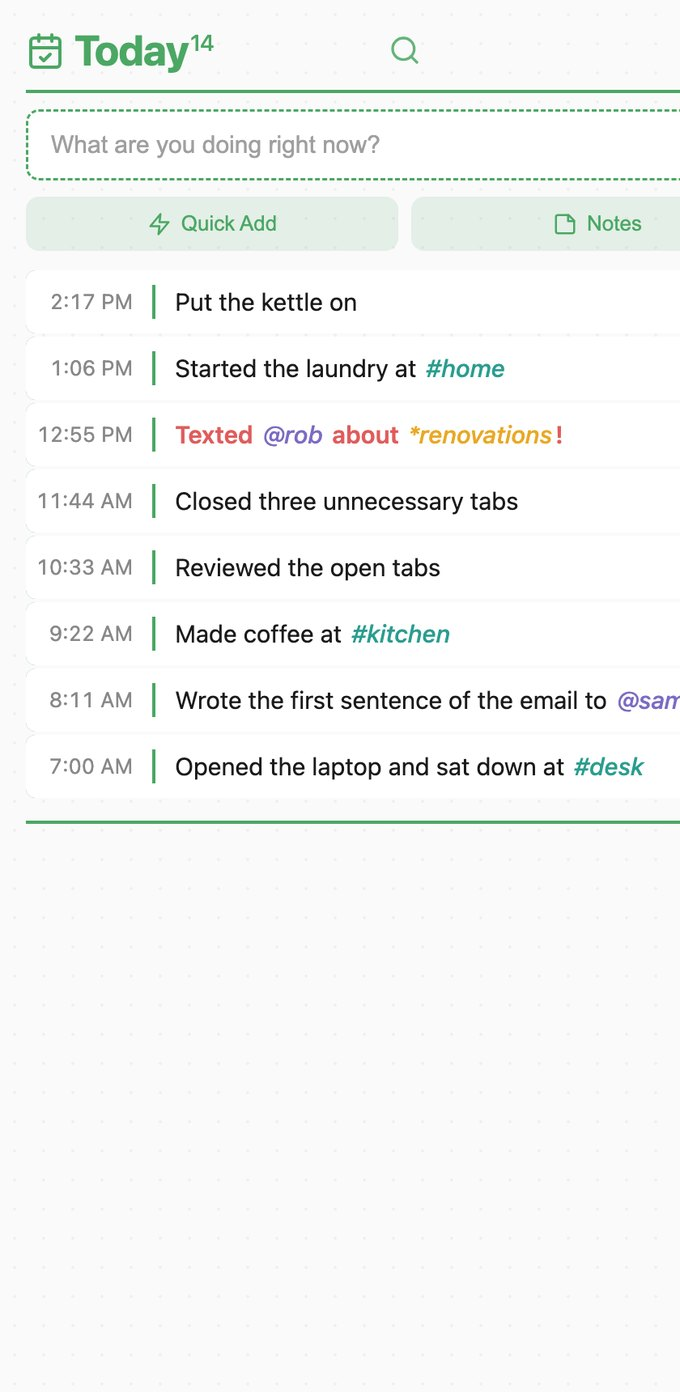
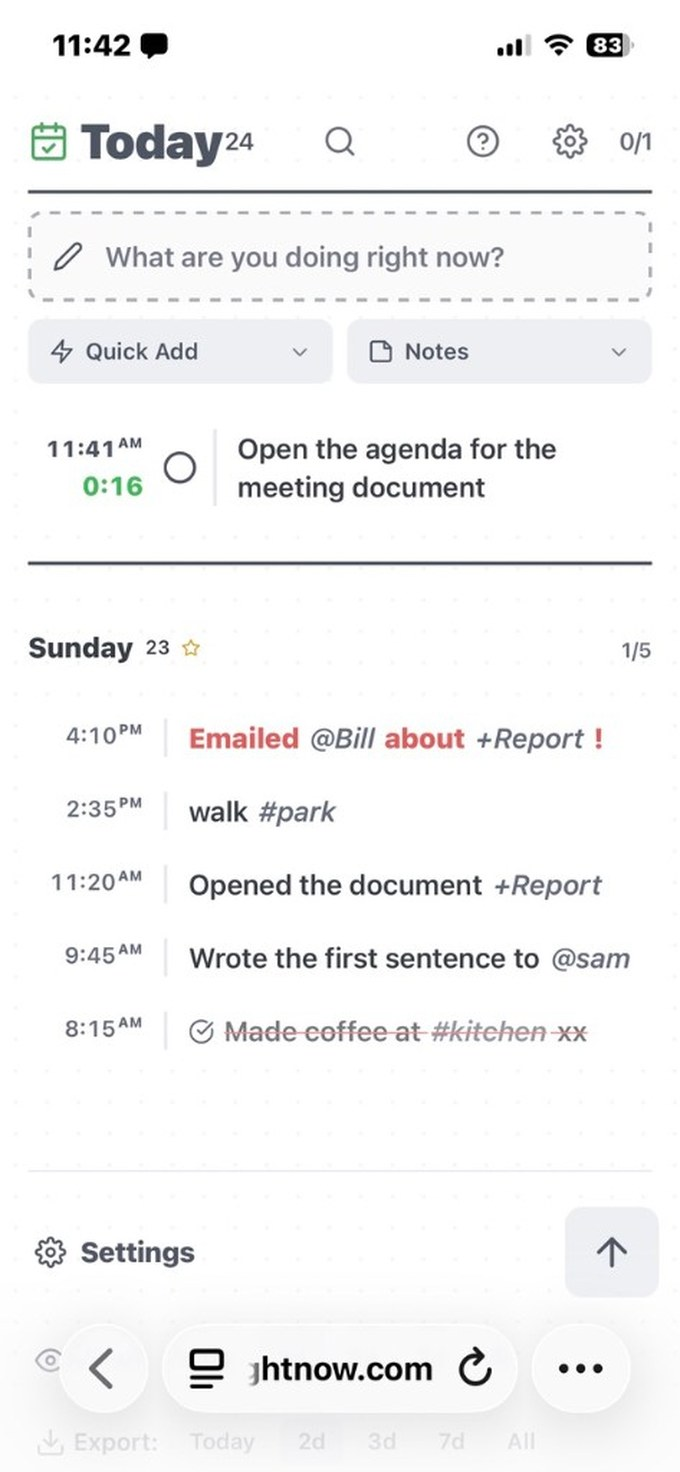
Update image references across multiple HTML files and README to use the new screenshot-840.jpg. Remove outdated screenshot.png and adjust related documentation for consistency in file naming and descriptions.

diff --git a/index.html b/index.html
@@ -19,7 +19,7 @@
   <meta property="og:title" content="Doing Right Now" />
   <meta property="og:description" content="When you can't start, write the smallest step. Doing Right Now (DRN) — a journal for getting unstuck — one timestamped line at a time." />
   <meta property="og:url" content="https://doingrightnow.com/" />
-  <meta property="og:image" content="https://doingrightnow.com/images/screenshot.png" />
+  <meta property="og:image" content="https://doingrightnow.com/images/screenshot-840.jpg" />
   <meta name="twitter:card" content="summary_large_image" />
   <meta name="twitter:title" content="Doing Right Now" />
   <meta name="twitter:description" content="When you can't start, write the smallest step. Doing Right Now (DRN) — a journal for getting unstuck — one timestamped line at a time." />
@@ -705,7 +705,7 @@
           <figure class="hero-shot">
             <picture>
               <source type="image/webp" srcset="images/screenshot-680.webp" />
-              <img src="images/screenshot-680.jpg" alt="Doing Right Now journal showing today’s timestamped entries" width="680" height="1394" fetchpriority="high" decoding="async" />
+              <img src="images/screenshot-680.jpg" alt="Doing Right Now on iPhone — today’s line with timer, tags, Quick Add, and yesterday’s entries" width="680" height="1472" fetchpriority="high" decoding="async" />
             </picture>
           </figure>
         </div>

diff --git a/help.html b/help.html
@@ -19,7 +19,7 @@
   <meta property="og:title" content="Doing Right Now — Help" />
   <meta property="og:description" content="Everything you need to know about the journal — optional reading, because the app is built so you never have to learn it." />
   <meta property="og:url" content="https://doingrightnow.com/help" />
-  <meta property="og:image" content="https://doingrightnow.com/images/screenshot.png" />
+  <meta property="og:image" content="https://doingrightnow.com/images/screenshot-840.jpg" />
   <title>Doing Right Now — Help</title>
   <link rel="icon" type="image/svg+xml" href="favicon.svg">
   <link rel="icon" type="image/png" sizes="16x16" href="favicon-16x16.png">

diff --git a/guide.html b/guide.html
@@ -19,7 +19,7 @@
   <meta property="og:title" content="Getting the most out of Doing Right Now" />
   <meta property="og:description" content="Micro-actions, one line at a time — momentum without the to-do list anxiety." />
   <meta property="og:url" content="https://doingrightnow.com/guide" />
-  <meta property="og:image" content="https://doingrightnow.com/images/screenshot.png" />
+  <meta property="og:image" content="https://doingrightnow.com/images/screenshot-840.jpg" />
   <title>Getting the most out of Doing Right Now</title>
   <link rel="icon" type="image/svg+xml" href="favicon.svg">
   <link rel="icon" type="image/png" sizes="16x16" href="favicon-16x16.png">

diff --git a/press/screenshots/README.md b/press/screenshots/README.md
@@ -4,9 +4,9 @@ Put **portrait phone captures** here with descriptive filenames.
 
 | File | Shows |
 |---|---|
-| `01-today-view.png` | Today header, input, a few entries |
+| `01-today-view.jpg` | Today header, input, timer, tags, yesterday's entries |
 | `02-search.png` | *(add)* Search panel + match count |
 | `03-export.png` | *(add)* Export preview |
 | `04-dark-mode.png` | *(add)* Dark or Everforest theme |
 
-Live site also hosts `../images/screenshot.png` (840×1720) for social previews.
+Live site also hosts `../images/screenshot-840.jpg` (840×1819) for social previews.

diff --git a/press/README.md b/press/README.md
@@ -42,7 +42,7 @@ All data lives in the browser's local storage on that device. No accounts, no se
 
 Name files clearly so reviewers know what they're looking at:
 
-- `01-today-view.png` — Today input + a few entries *(starter included)*
+- `01-today-view.jpg` — Today input, timer, tags, yesterday's entries *(starter included)*
 - `02-search.png` — Search open with matches
 - `03-export.png` — Export preview sheet
 - `04-dark-mode.png` — Dark mode / Everforest theme (optional)

diff --git a/README.md b/README.md
@@ -8,7 +8,7 @@ Not a planner, to-do list, or habit tracker. Write one timestamped line — what
 
 [Use it at DoingRightNow.com](https://doingrightnow.com/) · [Open the journal](https://doingrightnow.com/DoingRightNow) · [Press kit](press/README.md)
 
-![Doing Right Now journal](images/screenshot.png)
+![Doing Right Now journal](images/screenshot-840.jpg)
 
 ## How it works
 
